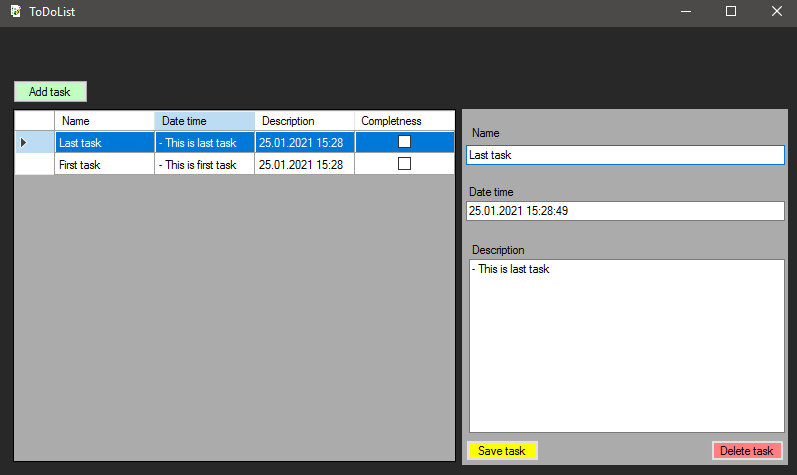
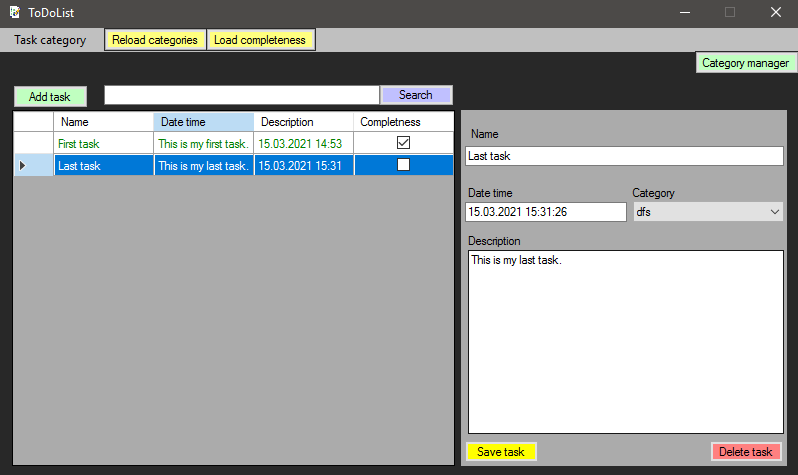
Update version 2.0.0 in readme

Changed region(s): [[0.0, 0.1474, 0.9937, 1.0], [0.0, 0.0, 1.0, 0.1768]]

diff --git a/README.md b/README.md
@@ -31,6 +31,7 @@ I use three-tiered architecture:
 - ToDoList.Data - layer for data storage
 - ToDoList.Domain - later for BL
 - ToDoList.Test - layer for tests
+- ToDoList.Mapping - layer for mapping objects and models with each other
 - ToDoList.UI - layer for user intrerface (WF)
 
 ## How to start
@@ -55,10 +56,19 @@ I use three-tiered architecture:
     }
 ```
 
+``` CS
+    internal class TaskCategoryDbContext : DbContext
+    {
+        public TaskCategoryDbContext() : base("ToDoList") { }
+        public DbSet<TaskCategoryEntity> TaskCategories { get; set; }
+    }
+```
+
 ## Versions
 - v1.0.0 - CRUD functional with user-friendly interface.
 - v1.0.1 - Added table of contents.
 - v1.0.2 - Edited task update system.
+- v2.0.0 - Add category management, task search, marking all completed tasks
 
 ## How to participate
 throw all your request in "pullRequests" branch
@@ -66,11 +76,13 @@ throw all your request in "pullRequests" branch
 ## Features
 - CRUD functional
 - User-friendly interface
+- Category management
+- Task menu
+- Marking all completed tasks
+- Task search
 
 ## To Do
-- Mark whether the task is completed or not
-- Task menu
-- Fix bug with task update
+- Empty
 
 ## Status
 I'm actively developing this project
